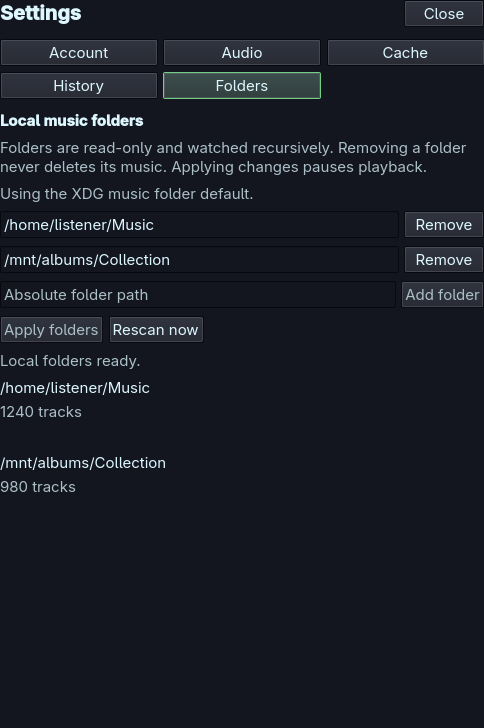
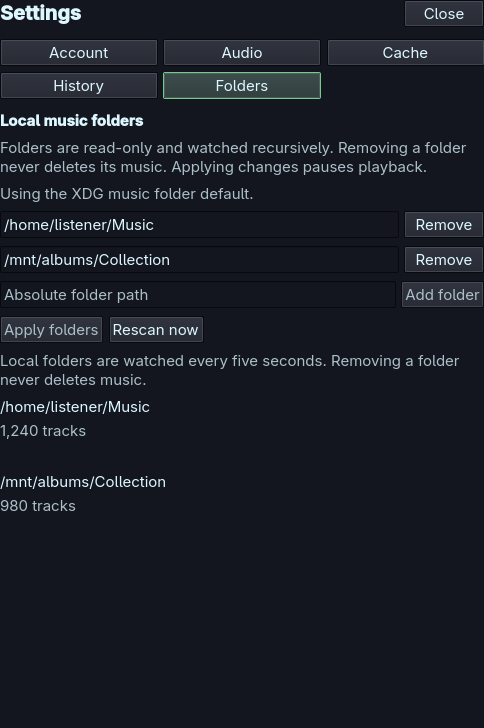
docs: capture local folder settings with production status text

Changed region(s): [[0.0, 0.4835, 0.9607, 0.6044], [0.0, 0.6044, 0.3409, 0.7253]]

diff --git a/tools/check-layout.py b/tools/check-layout.py
@@ -59,7 +59,7 @@ HOOKS = """
             next.sign_in = Object.assign({}, next.sign_in, {connected: false, saved: "absent"});
             next.playback_available = true;
             next.local_files = {available: true, phase: "ready", revision: "1", defaulted: true,
-                message: "Local folders ready.", paths: ["/home/listener/Music", "/mnt/albums/Collection"],
+                message: "Local folders are watched every five seconds. Removing a folder never deletes music.", paths: ["/home/listener/Music", "/mnt/albums/Collection"],
                 folders: [{path: "/home/listener/Music", tracks: "1240", message: ""},
                     {path: "/mnt/albums/Collection", tracks: "980", message: ""}]};
             next.libraries = [{id: "fixture", title: "Music", server: "Local files", kind: "local", playlists: false}];
